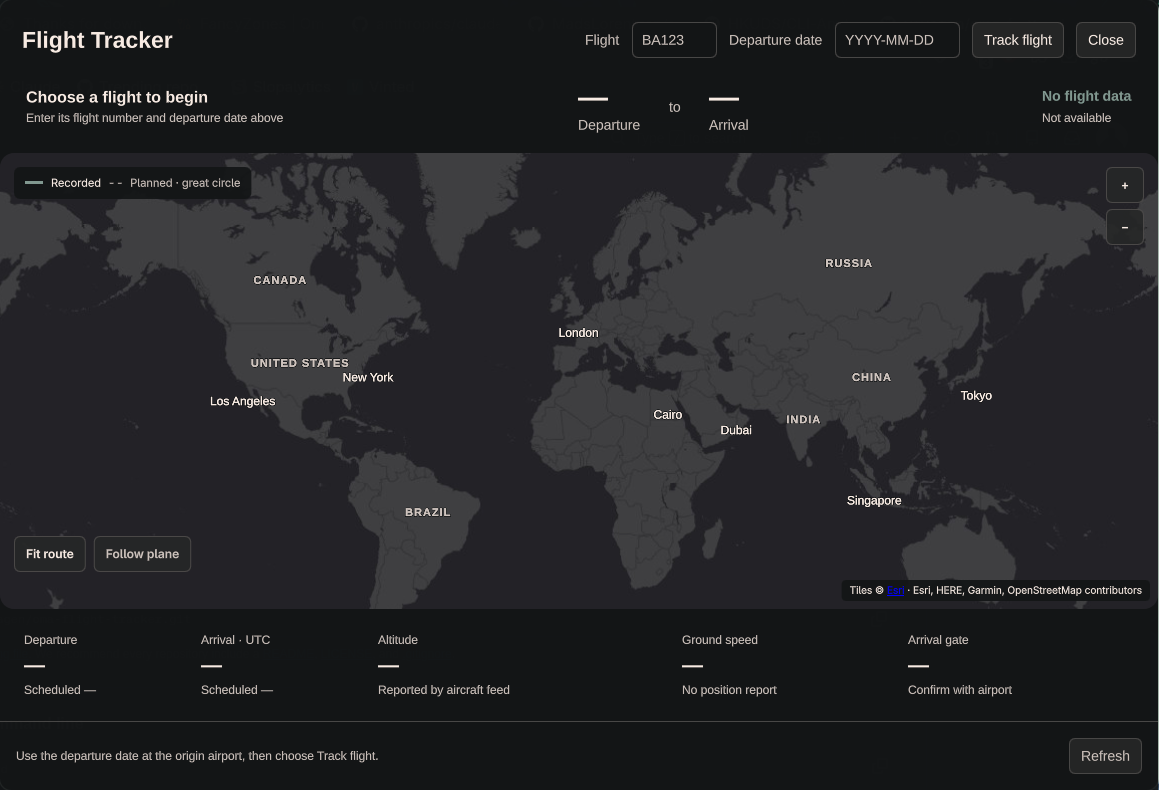
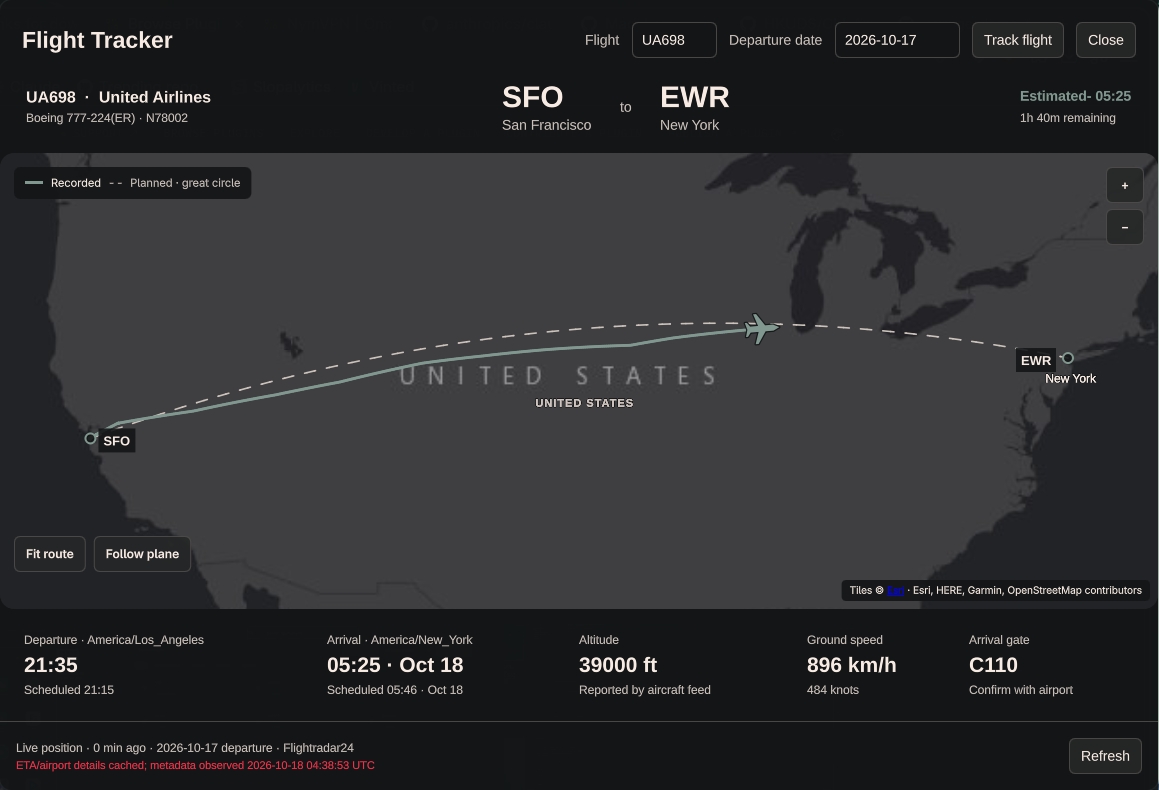
docs: show a live flight in the preview
Replace the empty first-run screenshot with one tracking a
San Francisco to New York flight in progress.

diff --git a/README.md b/README.md
@@ -2,7 +2,7 @@
 
 A native Omarchy Quattro bar plugin. The Nerd Font `nf-md-airplane` glyph (U+F001D) in the topbar opens a theme-aware geographic map with aircraft position, observed flight path, country boundaries, major cities, departure/arrival times, aircraft details, altitude, ground speed and arrival gate.
 
-![Flight Tracker first-run panel](preview.png)
+![Flight Tracker following a live San Francisco to New York flight](preview.png)
 
 ## Install
 
